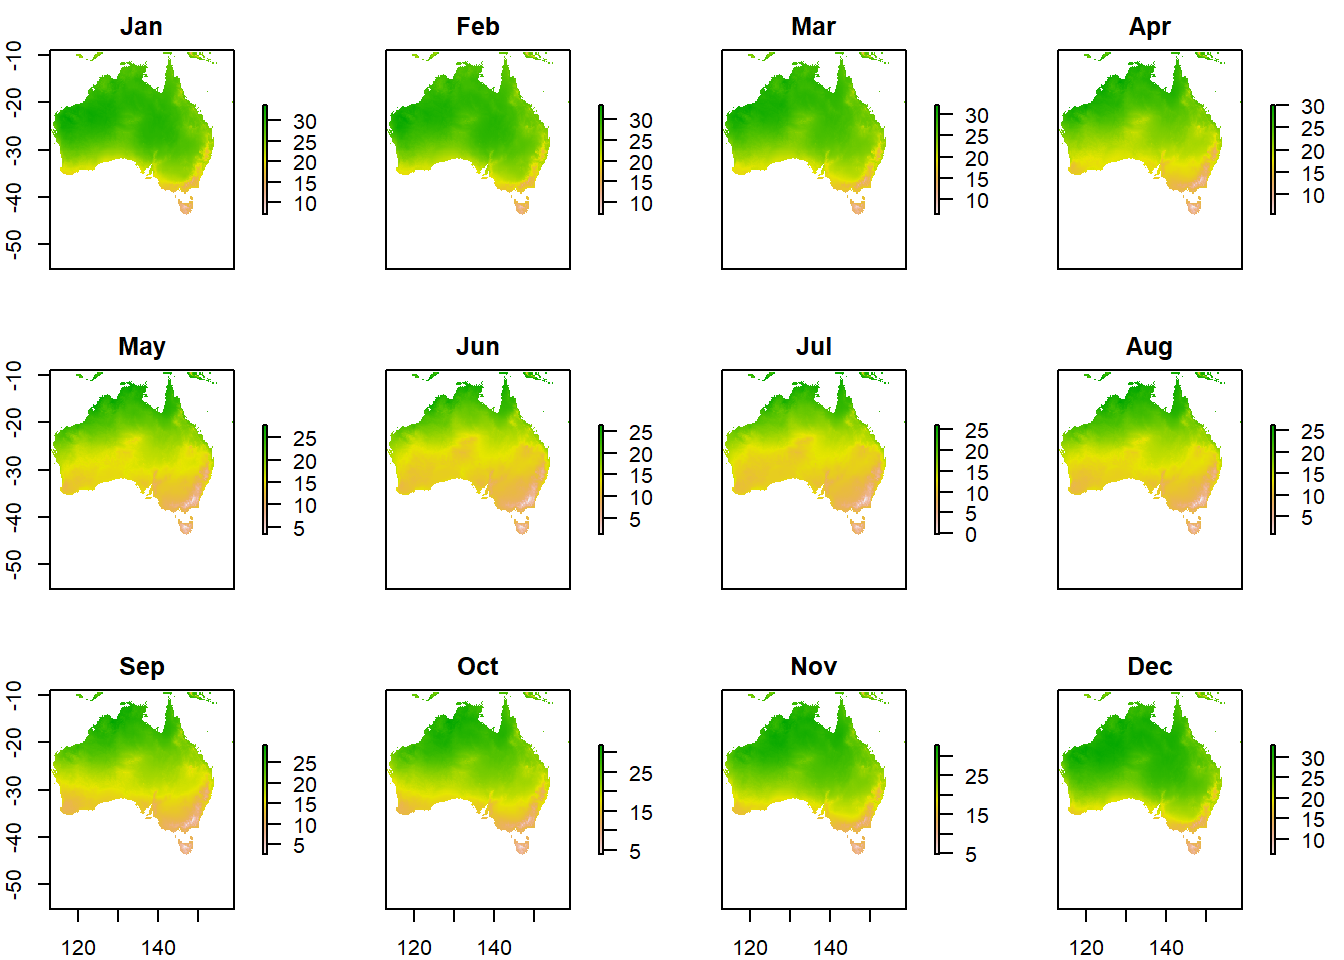
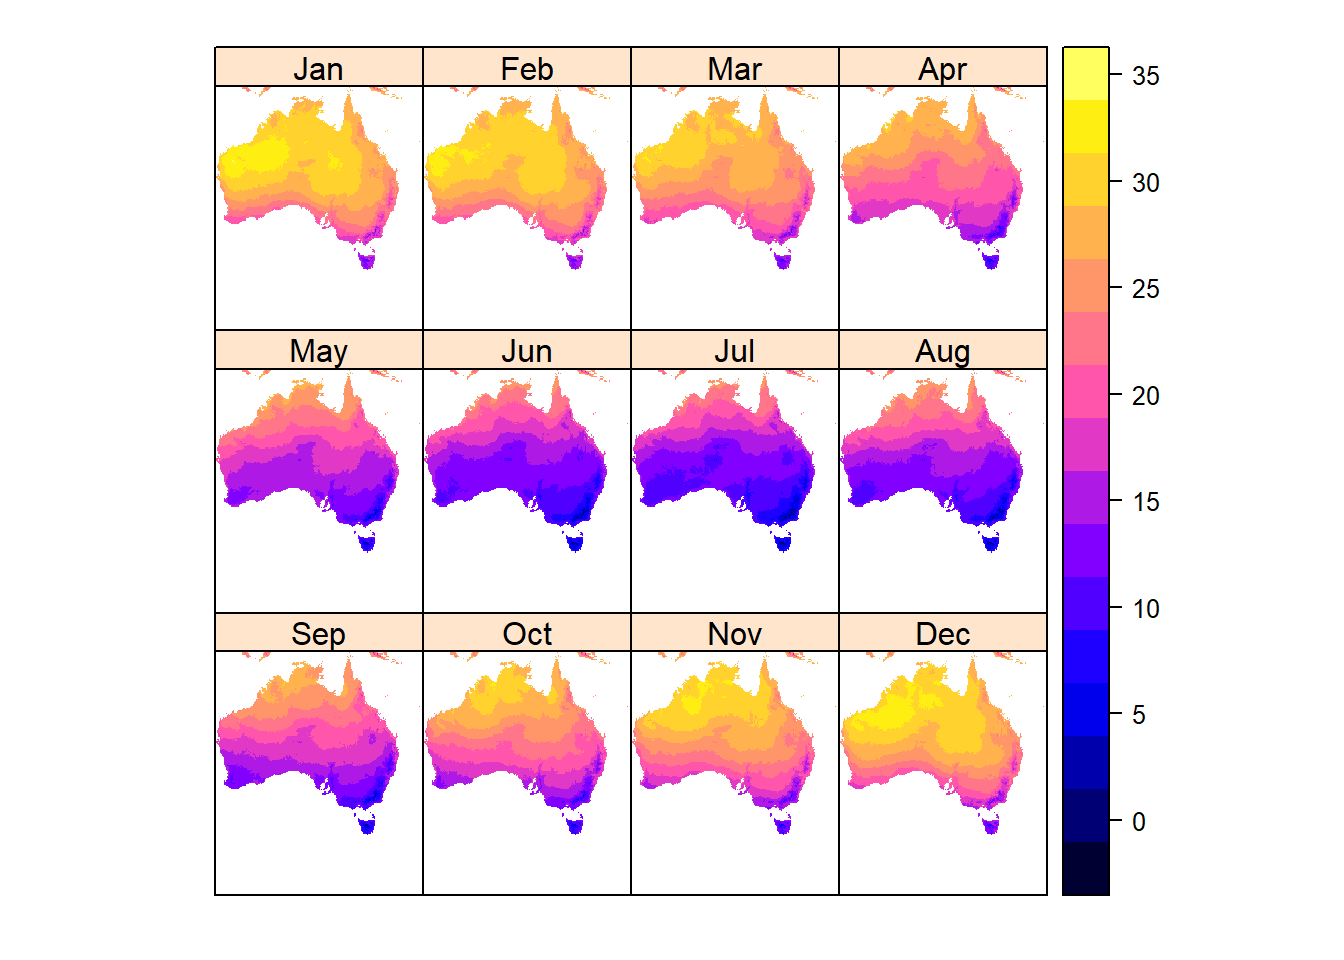
branch

diff --git a/content/post/2022-09-01-analysing-climate-data-with-r/index.en.html b/content/post/2022-09-01-analysing-climate-data-with-r/index.en.html
@@ -63,26 +63,12 @@ aus_temp &lt;- stack(&quot;tmean_australia_wc.nc&quot;)  # Loading gridded #data
 <pre><code>## [1] TRUE</code></pre>
 <pre class="r"><code>names(aus_temp) #check the names of the layers</code></pre>
 <pre><code>##  [1] &quot;X1&quot;  &quot;X2&quot;  &quot;X3&quot;  &quot;X4&quot;  &quot;X5&quot;  &quot;X6&quot;  &quot;X7&quot;  &quot;X8&quot;  &quot;X9&quot;  &quot;X10&quot; &quot;X11&quot; &quot;X12&quot;</code></pre>
-<<<<<<< HEAD
-<<<<<<< HEAD
 <p>Now plot the rasters using the <code>plot</code> function:</p>
 <pre class="r"><code>plot(aus_temp/10)</code></pre>
 <p><img src="{{< blogdown/postref >}}index.en_files/figure-html/unnamed-chunk-6-1.png" width="672" /></p>
-<p>Or use <code>spplot</code>:</p>
+<p>Or use spplot:</p>
 <pre class="r"><code>spplot(aus_temp/10) # lattice plot, returns a trellice </code></pre>
 <p><img src="{{< blogdown/postref >}}index.en_files/figure-html/unnamed-chunk-7-1.png" width="672" /></p>
-=======
-=======
->>>>>>> eff99f0102ab1f52540fe549b56e036bd8445c77
-<pre class="r"><code>plot(aus_temp/10)</code></pre>
-<p><img src="{{< blogdown/postref >}}index.en_files/figure-html/unnamed-chunk-5-1.png" width="672" /></p>
-<p>Or use spplot</p>
-<pre class="r"><code>spplot(aus_temp/10) # lattice plot, returns a trellice </code></pre>
-<p><img src="{{< blogdown/postref >}}index.en_files/figure-html/unnamed-chunk-6-1.png" width="672" /></p>
-<<<<<<< HEAD
->>>>>>> eff99f0102ab1f52540fe549b56e036bd8445c77
-=======
->>>>>>> eff99f0102ab1f52540fe549b56e036bd8445c77
 <p>Each layer represents a month of the year, from 1-12.
 So lets rename the layers and plot again.</p>
 <pre class="r"><code>months &lt;- c(&quot;Jan&quot;, &quot;Feb&quot;, &quot;Mar&quot;, &quot;Apr&quot;, &quot;May&quot;, &quot;Jun&quot;,
@@ -91,8 +77,6 @@ So lets rename the layers and plot again.</p>
 names(aus_temp) &lt;- months #set the layer names to months
 
 plot(aus_temp/10)</code></pre>
-<<<<<<< HEAD
-<<<<<<< HEAD
 <p><img src="{{< blogdown/postref >}}index.en_files/figure-html/unnamed-chunk-8-1.png" width="672" /></p>
 <p>Or, using <code>spplot</code> to create a lattice plot</p>
 <pre class="r"><code>spplot(aus_temp/10) # lattice plot, returns a trellice  </code></pre>
@@ -101,24 +85,6 @@ plot(aus_temp/10)</code></pre>
 <div id="calculating-anomalies-as-gridded-time-series-and-global-average" class="section level1">
 <h1>3 Calculating anomalies as gridded time-series and global average</h1>
 <p>First, load the CMIP6 data set.</p>
-=======
-<p><img src="{{< blogdown/postref >}}index.en_files/figure-html/unnamed-chunk-7-1.png" width="672" /></p>
-<p>Or, using spplot to create a lattice plot</p>
-<pre class="r"><code>spplot(aus_temp/10) # lattice plot, returns a trellice  </code></pre>
-<p><img src="{{< blogdown/postref >}}index.en_files/figure-html/unnamed-chunk-8-1.png" width="672" /></p>
-</div>
-<div id="calculating-anomalies-as-gridded-time-series-and-global-average" class="section level1">
-<h1>3 Calculating anomalies as gridded time-series and global average</h1>
->>>>>>> eff99f0102ab1f52540fe549b56e036bd8445c77
-=======
-<p><img src="{{< blogdown/postref >}}index.en_files/figure-html/unnamed-chunk-7-1.png" width="672" /></p>
-<p>Or, using spplot to create a lattice plot</p>
-<pre class="r"><code>spplot(aus_temp/10) # lattice plot, returns a trellice  </code></pre>
-<p><img src="{{< blogdown/postref >}}index.en_files/figure-html/unnamed-chunk-8-1.png" width="672" /></p>
-</div>
-<div id="calculating-anomalies-as-gridded-time-series-and-global-average" class="section level1">
-<h1>3 Calculating anomalies as gridded time-series and global average</h1>
->>>>>>> eff99f0102ab1f52540fe549b56e036bd8445c77
 <pre class="r"><code>setwd(paste0(home, &quot;/CMIP6&quot;)) # Set work directory to CMIP6 data
 proj_temp &lt;- stack(&quot;tas_Asea_ACCESS-ESM1-5_ssp370_r1i1p1f1_gr1.5_1950-2100.nc&quot;)
 names(proj_temp)</code></pre>
@@ -160,8 +126,6 @@ names(proj_temp)</code></pre>
 ## [136] &quot;X2085&quot; &quot;X2086&quot; &quot;X2087&quot; &quot;X2088&quot; &quot;X2089&quot; &quot;X2090&quot; &quot;X2091&quot; &quot;X2092&quot; &quot;X2093&quot;
 ## [145] &quot;X2094&quot; &quot;X2095&quot; &quot;X2096&quot; &quot;X2097&quot; &quot;X2098&quot; &quot;X2099&quot; &quot;X2100&quot;</code></pre>
 <p>The X is at the start of each of each year to ensure they are of type character.</p>
-<<<<<<< HEAD
-<<<<<<< HEAD
 <p>Now we can create a simple function to calculate the temperature anomaly.</p>
 <pre class="r"><code>anomaly &lt;- function(x) {
     anom &lt;-  x - mean(x[[32:61]]) # for reference period 1981-2100
@@ -179,31 +143,10 @@ names(proj_temp)</code></pre>
 <pre class="r"><code>T_anom_mean &lt;- as.data.frame(cbind(years, cellStats(T_anom, mean)))
 names(T_anom_mean) &lt;- c(&quot;year&quot;, &quot;T_anom_mean&quot;)</code></pre>
 <p>Finally, we can take a look at the average temperature anomaloy for the entire dataset.</p>
-<pre class="r"><code>setwd(home) # Set work directory to main folder
-dir.create(&quot;output&quot;) #create an output folder
-setwd(paste0(home, &quot;/output&quot;)) #set directory to output
-=======
-=======
->>>>>>> eff99f0102ab1f52540fe549b56e036bd8445c77
-<pre class="r"><code>anomaly &lt;- function(x) {
-    anom &lt;-  x - mean(x[[32:61]]) # for reference period 1981-2010 
-    names(anom) &lt;- seq(1950, 2100, by=1)    
-    return(anom)
-}</code></pre>
-<pre class="r"><code>T_anom &lt;- anomaly(proj_temp)
-spplot(T_anom[[1:16]])</code></pre>
-<p><img src="{{< blogdown/postref >}}index.en_files/figure-html/unnamed-chunk-12-1.png" width="672" /></p>
-<pre class="r"><code>spplot(T_anom[[135:151]])</code></pre>
-<p><img src="{{< blogdown/postref >}}index.en_files/figure-html/unnamed-chunk-12-2.png" width="672" /></p>
-<pre class="r"><code>T_anom_mean &lt;- as.data.frame(cbind(years, cellStats(T_anom, mean)))
-names(T_anom_mean) &lt;- c(&quot;year&quot;, &quot;T_anom_mean&quot;)</code></pre>
-<pre class="r"><code>setwd(home) # Set work directory to main folder
+<pre class="r"><code>setwd(paste0(home, &quot;/output&quot;)) #set directory to output
+setwd(home) # Set work directory to main folder
 dir.create(&quot;output&quot;)
 setwd(paste0(home, &quot;/output&quot;))
-<<<<<<< HEAD
->>>>>>> eff99f0102ab1f52540fe549b56e036bd8445c77
-=======
->>>>>>> eff99f0102ab1f52540fe549b56e036bd8445c77
 jpeg(file=&quot;anomaly_ts.jpeg&quot;, height = 600,  width = 1000, res=150)
 plot(T_anom_mean$year, T_anom_mean$T_anom_mean, type = &quot;p&quot;, pch = 19, 
      col = &quot;red&quot;, xlab=&quot;year&quot;, ylab=&quot;Projected temperature anomaly&quot;, 
@@ -211,21 +154,12 @@ plot(T_anom_mean$year, T_anom_mean$T_anom_mean, type = &quot;p&quot;, pch = 19,
 dev.off()</code></pre>
 <pre><code>## png 
 ##   2</code></pre>
-<<<<<<< HEAD
-<<<<<<< HEAD
 <p>Have a look in the output folder, you should see something like this</p>
 <p><img src="images/anomaly_ts.jpeg" /></p>
-=======
-<p>Have a look in the output folder, you should see something like this
-<img src="images/anomaly_ts.jpeg" /></p>
->>>>>>> eff99f0102ab1f52540fe549b56e036bd8445c77
-=======
-<p>Have a look in the output folder, you should see something like this
-<img src="images/anomaly_ts.jpeg" /></p>
->>>>>>> eff99f0102ab1f52540fe549b56e036bd8445c77
 </div>
 <div id="handling-regions-as-shapefiles" class="section level1">
 <h1>4 Handling regions as shapefiles</h1>
+<p>Here, we load and plot a shapefile of the worlds country boundaries.</p>
 <p>Here, we load and plot a shapefile of the worlds country boundaries.</p>
 <pre class="r"><code>library(rgdal)
 
@@ -237,23 +171,10 @@ countries = readOGR(dsn=&quot;.&quot;, layer=&quot;TM_WORLD_BORDERS_SIMPL-0.3&qu
 ## It has 11 fields
 ## Integer64 fields read as strings:  POP2005</code></pre>
 <pre class="r"><code>plot(countries)</code></pre>
-<<<<<<< HEAD
-<<<<<<< HEAD
 <p><img src="{{< blogdown/postref >}}index.en_files/figure-html/unnamed-chunk-18-1.png" width="672" /></p>
 <p>Or use <code>spplot</code> to color by population:</p>
 <pre class="r"><code>spplot(countries, &quot;POP2005&quot;)</code></pre>
 <p><img src="{{< blogdown/postref >}}index.en_files/figure-html/unnamed-chunk-19-1.png" width="672" /></p>
-=======
-=======
->>>>>>> eff99f0102ab1f52540fe549b56e036bd8445c77
-<p><img src="{{< blogdown/postref >}}index.en_files/figure-html/unnamed-chunk-14-1.png" width="672" />
-Or use <code>spplot</code> to color by population:</p>
-<pre class="r"><code>spplot(countries, &quot;POP2005&quot;)</code></pre>
-<p><img src="{{< blogdown/postref >}}index.en_files/figure-html/unnamed-chunk-15-1.png" width="672" /></p>
-<<<<<<< HEAD
->>>>>>> eff99f0102ab1f52540fe549b56e036bd8445c77
-=======
->>>>>>> eff99f0102ab1f52540fe549b56e036bd8445c77
 </div>
 <div id="regionalizations-of-climate-data---plotting-time-series-as-line-plot-and-bar-chart" class="section level1">
 <h1>5 Regionalizations of climate data - plotting time-series as line plot and bar chart</h1>
@@ -276,37 +197,18 @@ longitude = c(153.0251, 145.7781, 149.1821, 146.8169, 139.4927, 144.2555),
 latitude = c(-27.4698, -16.9186, -21.1425, -19.2590, -20.7256, -23.4422)), 
 .Names = c(&quot;longitude&quot;, &quot;latitude&quot;), class = &quot;data.frame&quot;, row.names = c(NA, -6L))
 xy &lt;- mydf[,c(1,2)]
-<<<<<<< HEAD
-<<<<<<< HEAD
 spdf &lt;- SpatialPointsDataFrame(coords = xy, data = mydf, proj4string = CRS(&quot;+proj=longlat +datum=WGS84 +ellps=WGS84 +towgs84=0,0,0&quot;))</code></pre>
 <p>Finally, plot the points we chose on the map of Australia.</p>
 <pre class="r"><code>plot(my_country)
 plot(spdf, add=T, col=&quot;red&quot;)</code></pre>
 <p><img src="{{< blogdown/postref >}}index.en_files/figure-html/unnamed-chunk-21-1.png" width="672" /></p>
-=======
-=======
->>>>>>> eff99f0102ab1f52540fe549b56e036bd8445c77
-spdf &lt;- SpatialPointsDataFrame(coords = xy, data = mydf, proj4string = CRS(&quot;+proj=longlat +datum=WGS84 +ellps=WGS84 +towgs84=0,0,0&quot;))
-
-plot(my_country)
-plot(spdf, add=T, col=&quot;red&quot;)</code></pre>
-<p><img src="{{< blogdown/postref >}}index.en_files/figure-html/unnamed-chunk-16-1.png" width="672" /></p>
-<<<<<<< HEAD
->>>>>>> eff99f0102ab1f52540fe549b56e036bd8445c77
-=======
->>>>>>> eff99f0102ab1f52540fe549b56e036bd8445c77
 <pre class="r"><code>proj_temp_cities &lt;- extract(proj_temp, spdf)
 proj_temp_cities &lt;- as.data.frame(proj_temp_cities)
 proj_temp_cities &lt;-as.data.frame(t(proj_temp_cities))
 proj_temp_cities$year &lt;- 1:nrow(proj_temp_cities)+1980
 names(proj_temp_cities) &lt;- c(&quot;Brisbane&quot;, &quot;Cairns&quot;, &quot;Mackay&quot;, &quot;Townsville&quot;, &quot;Mount_Isa&quot;, &quot;Longreach&quot;, &quot;year&quot;)</code></pre>
-<<<<<<< HEAD
-<<<<<<< HEAD
 <p>We can plot the projected temperature change of the cities we have selected.</p>
-=======
->>>>>>> eff99f0102ab1f52540fe549b56e036bd8445c77
-=======
->>>>>>> eff99f0102ab1f52540fe549b56e036bd8445c77
+<p>We can plot the projected temperature change of the cities we have selected.</p>
 <pre class="r"><code>#install.packages(&quot;reshape2&quot;)
 library(reshape2)
 proj_temp_cities_melt &lt;- melt(proj_temp_cities, id=&quot;year&quot;)
@@ -318,15 +220,7 @@ ts1 &lt;- ggplot(proj_temp_cities_melt) +
     scale_color_brewer(name= &quot;cities&quot;, palette=&quot;Set1&quot;) +
     theme_bw() 
 ts1</code></pre>
-<<<<<<< HEAD
-<<<<<<< HEAD
 <p><img src="{{< blogdown/postref >}}index.en_files/figure-html/unnamed-chunk-23-1.png" width="672" /></p>
-=======
-<p><img src="{{< blogdown/postref >}}index.en_files/figure-html/unnamed-chunk-18-1.png" width="672" /></p>
->>>>>>> eff99f0102ab1f52540fe549b56e036bd8445c77
-=======
-<p><img src="{{< blogdown/postref >}}index.en_files/figure-html/unnamed-chunk-18-1.png" width="672" /></p>
->>>>>>> eff99f0102ab1f52540fe549b56e036bd8445c77
 </div>
 <div id="convertig-gridcells-to-data-frame-within-a-study-area-mask-and-plotting-boxplots-in-ggplot2" class="section level1">
 <h1>6 Convertig gridcells to data frame within a study area mask and plotting boxplots in ggplot2</h1>
@@ -353,15 +247,7 @@ temp_list &lt;- list.files(path= paste0(home, &quot;/IPCC&quot;), pattern = &quo
 temp_GW &lt;- stack(temp_list)
 names(temp_GW) &lt;- c(&quot;GW1.5&quot;, &quot;GW2.0&quot;, &quot;GW3.0&quot;, &quot;GW4.0&quot;) 
 plot(temp_GW)</code></pre>
-<<<<<<< HEAD
-<<<<<<< HEAD
 <p><img src="{{< blogdown/postref >}}index.en_files/figure-html/unnamed-chunk-24-1.png" width="672" /></p>
-=======
-<p><img src="{{< blogdown/postref >}}index.en_files/figure-html/unnamed-chunk-19-1.png" width="672" /></p>
->>>>>>> eff99f0102ab1f52540fe549b56e036bd8445c77
-=======
-<p><img src="{{< blogdown/postref >}}index.en_files/figure-html/unnamed-chunk-19-1.png" width="672" /></p>
->>>>>>> eff99f0102ab1f52540fe549b56e036bd8445c77
 <pre class="r"><code>#masking data outside country and converting grid to dataframe
 
 temp_GW_country &lt;- as.data.frame(mask(temp_GW, my_country))
@@ -393,15 +279,7 @@ theme_bw()
 
 bp1 &lt;- bp1 + scale_color_brewer(name= &quot;GW level&quot;, palette=&quot;YlOrRd&quot;) # why it does not work? - change from color to fill
 bp1</code></pre>
-<<<<<<< HEAD
-<<<<<<< HEAD
 <p><img src="{{< blogdown/postref >}}index.en_files/figure-html/unnamed-chunk-25-1.png" width="672" /></p>
-=======
-<p><img src="{{< blogdown/postref >}}index.en_files/figure-html/unnamed-chunk-20-1.png" width="672" /></p>
->>>>>>> eff99f0102ab1f52540fe549b56e036bd8445c77
-=======
-<p><img src="{{< blogdown/postref >}}index.en_files/figure-html/unnamed-chunk-20-1.png" width="672" /></p>
->>>>>>> eff99f0102ab1f52540fe549b56e036bd8445c77
 </div>
 <div id="repeat-the-extraction-and-plot-for-precipitation-andor-other-metrics" class="section level1">
 <h1>7 Repeat the extraction and plot for precipitation and/or other metrics</h1>
@@ -410,15 +288,7 @@ prec_list &lt;- list.files(path= paste0(home, &quot;/IPCC&quot;), pattern = &quo
 prec_GW &lt;- stack(prec_list)
 names(prec_GW) &lt;- c(&quot;GW1.5&quot;, &quot;GW2.0&quot;, &quot;GW3.0&quot;, &quot;GW4.0&quot;) 
 plot(prec_GW)</code></pre>
-<<<<<<< HEAD
-<<<<<<< HEAD
 <p><img src="{{< blogdown/postref >}}index.en_files/figure-html/unnamed-chunk-26-1.png" width="672" /></p>
-=======
-<p><img src="{{< blogdown/postref >}}index.en_files/figure-html/unnamed-chunk-21-1.png" width="672" /></p>
->>>>>>> eff99f0102ab1f52540fe549b56e036bd8445c77
-=======
-<p><img src="{{< blogdown/postref >}}index.en_files/figure-html/unnamed-chunk-21-1.png" width="672" /></p>
->>>>>>> eff99f0102ab1f52540fe549b56e036bd8445c77
 <pre class="r"><code>#masking data outside country and converting grid to dataframe
 
 prec_GW_country &lt;- as.data.frame(mask(prec_GW, my_country))
@@ -436,15 +306,7 @@ theme_bw() +
 scale_fill_brewer(name= &quot;GW level&quot;, palette=&quot;YlOrRd&quot;)
 bp2</code></pre>
 <pre><code>## Warning: Removed 256404 rows containing non-finite values (stat_boxplot).</code></pre>
-<<<<<<< HEAD
-<<<<<<< HEAD
 <p><img src="{{< blogdown/postref >}}index.en_files/figure-html/unnamed-chunk-27-1.png" width="672" /></p>
-=======
-<p><img src="{{< blogdown/postref >}}index.en_files/figure-html/unnamed-chunk-22-1.png" width="672" /></p>
->>>>>>> eff99f0102ab1f52540fe549b56e036bd8445c77
-=======
-<p><img src="{{< blogdown/postref >}}index.en_files/figure-html/unnamed-chunk-22-1.png" width="672" /></p>
->>>>>>> eff99f0102ab1f52540fe549b56e036bd8445c77
 </div>
 <div id="where-to-find-climate-data" class="section level1">
 <h1>Where to find climate data</h1>
